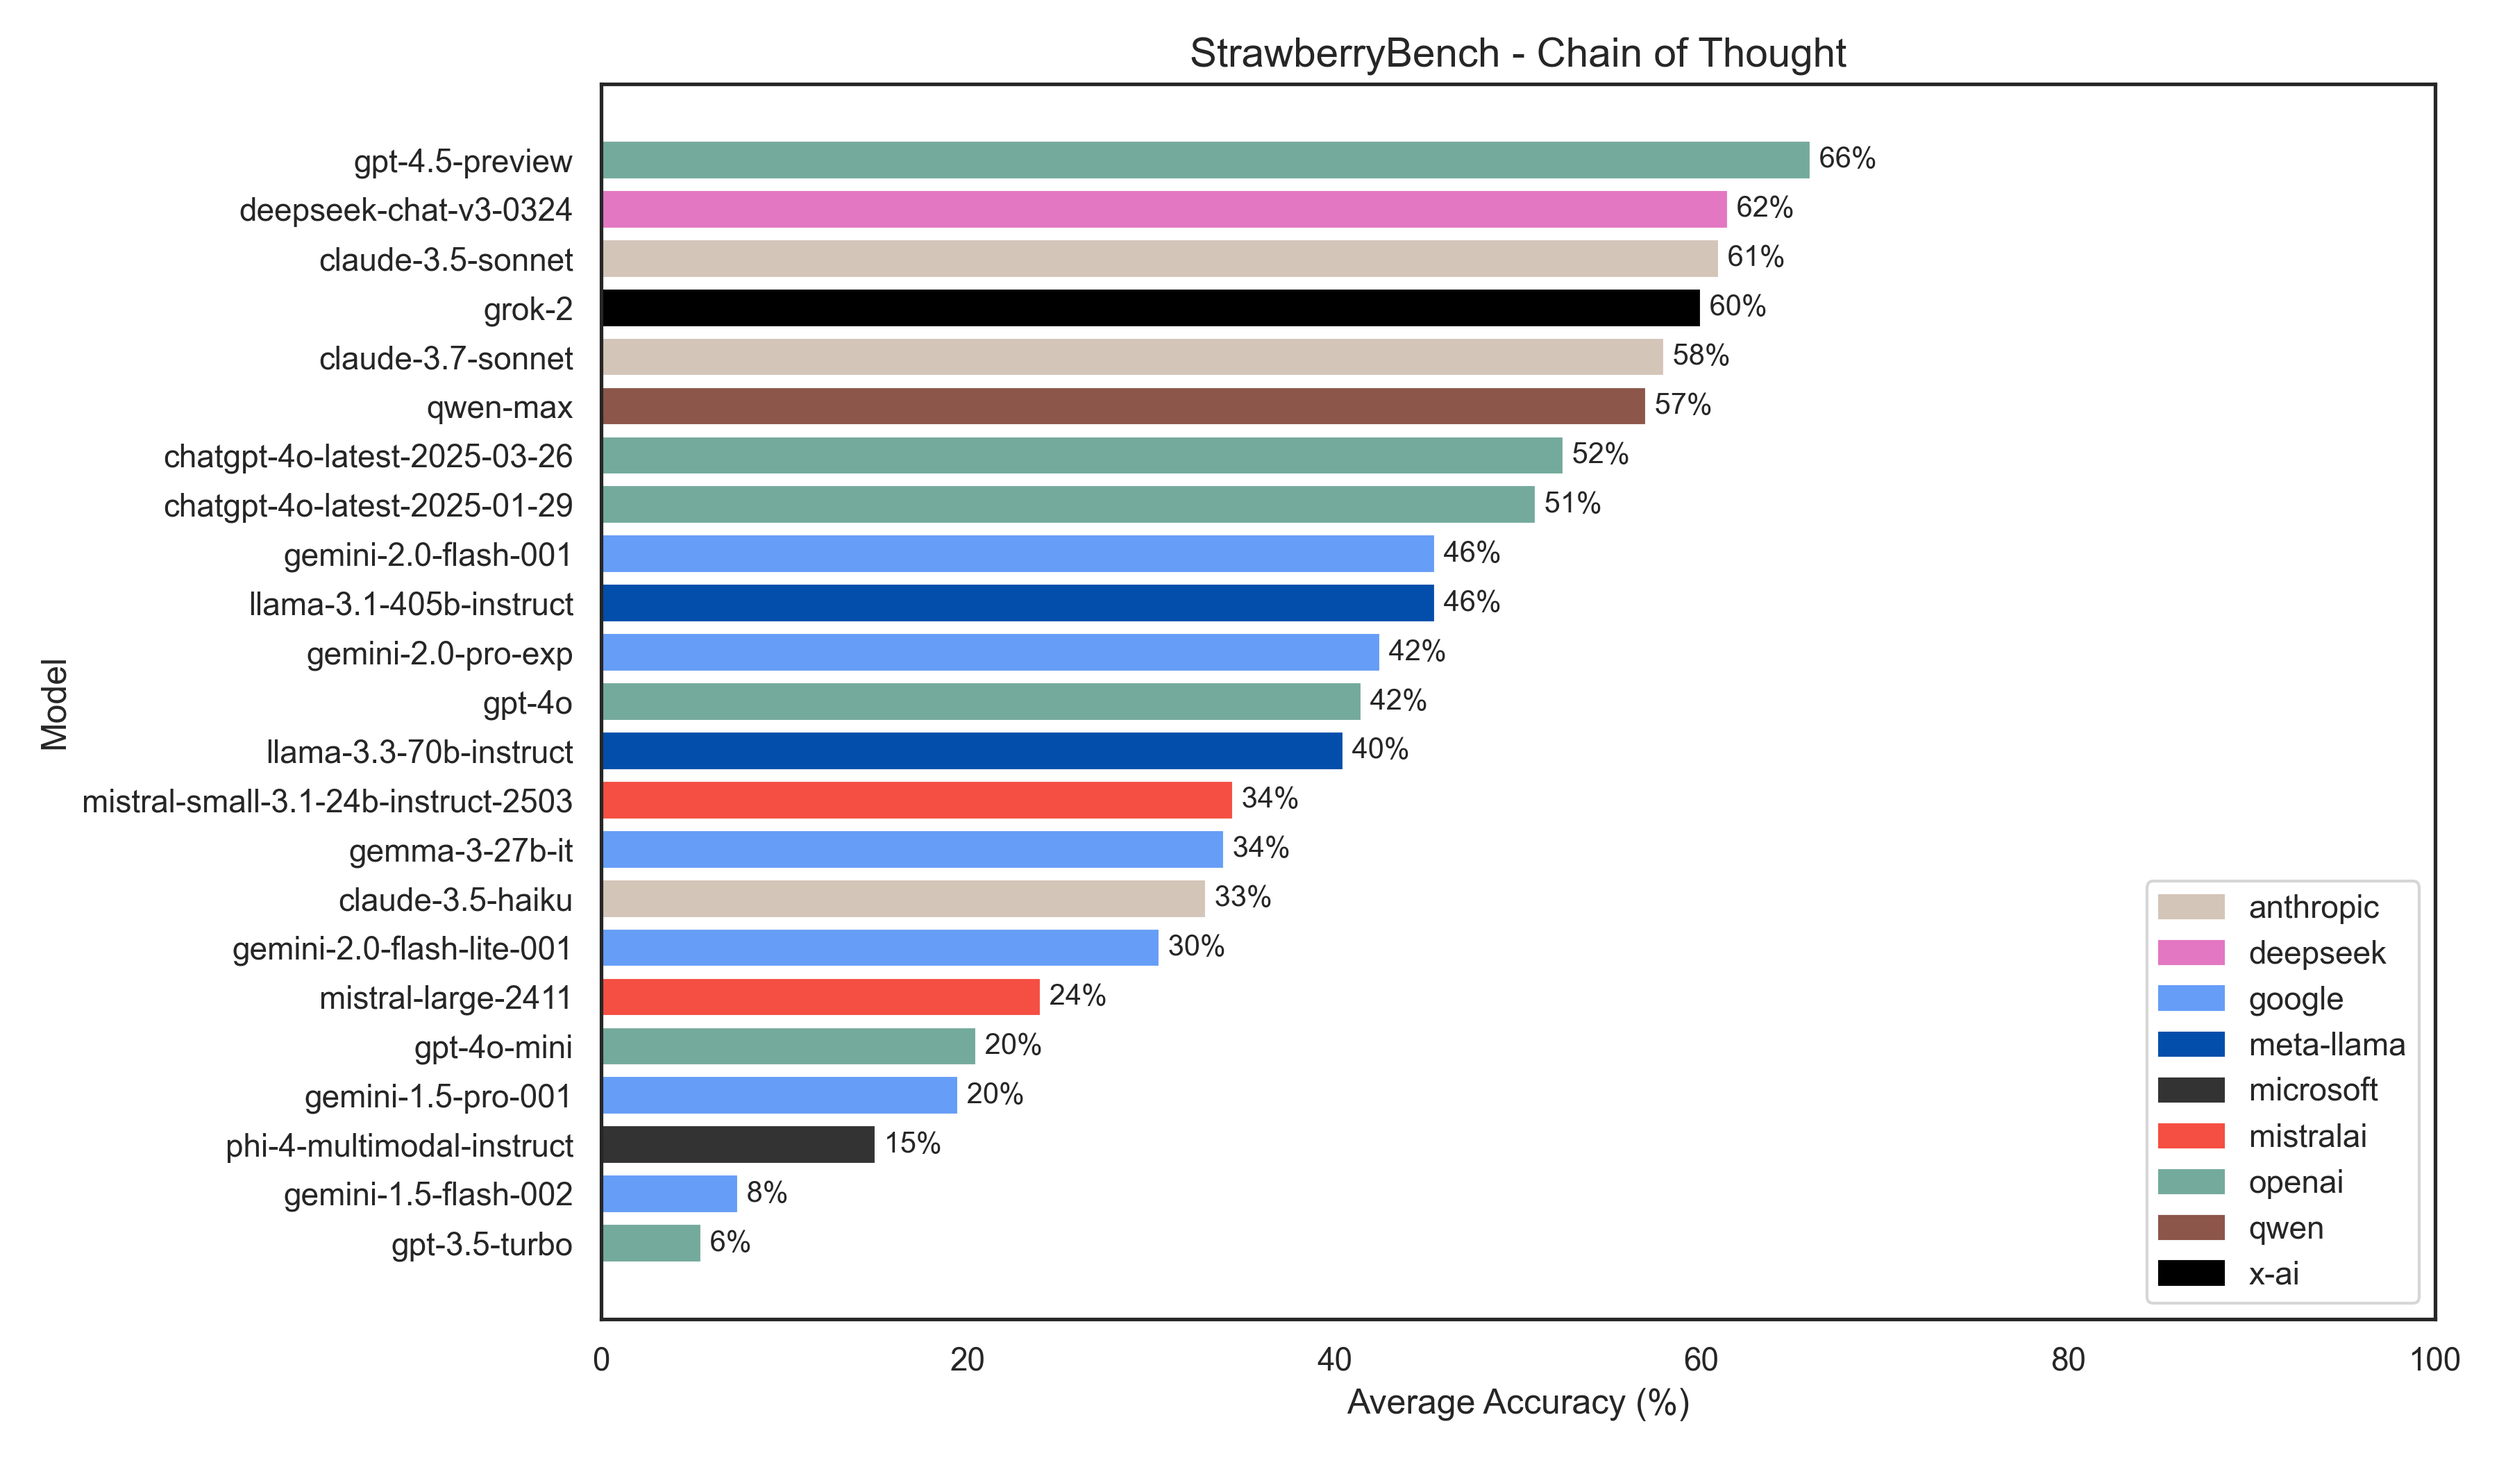
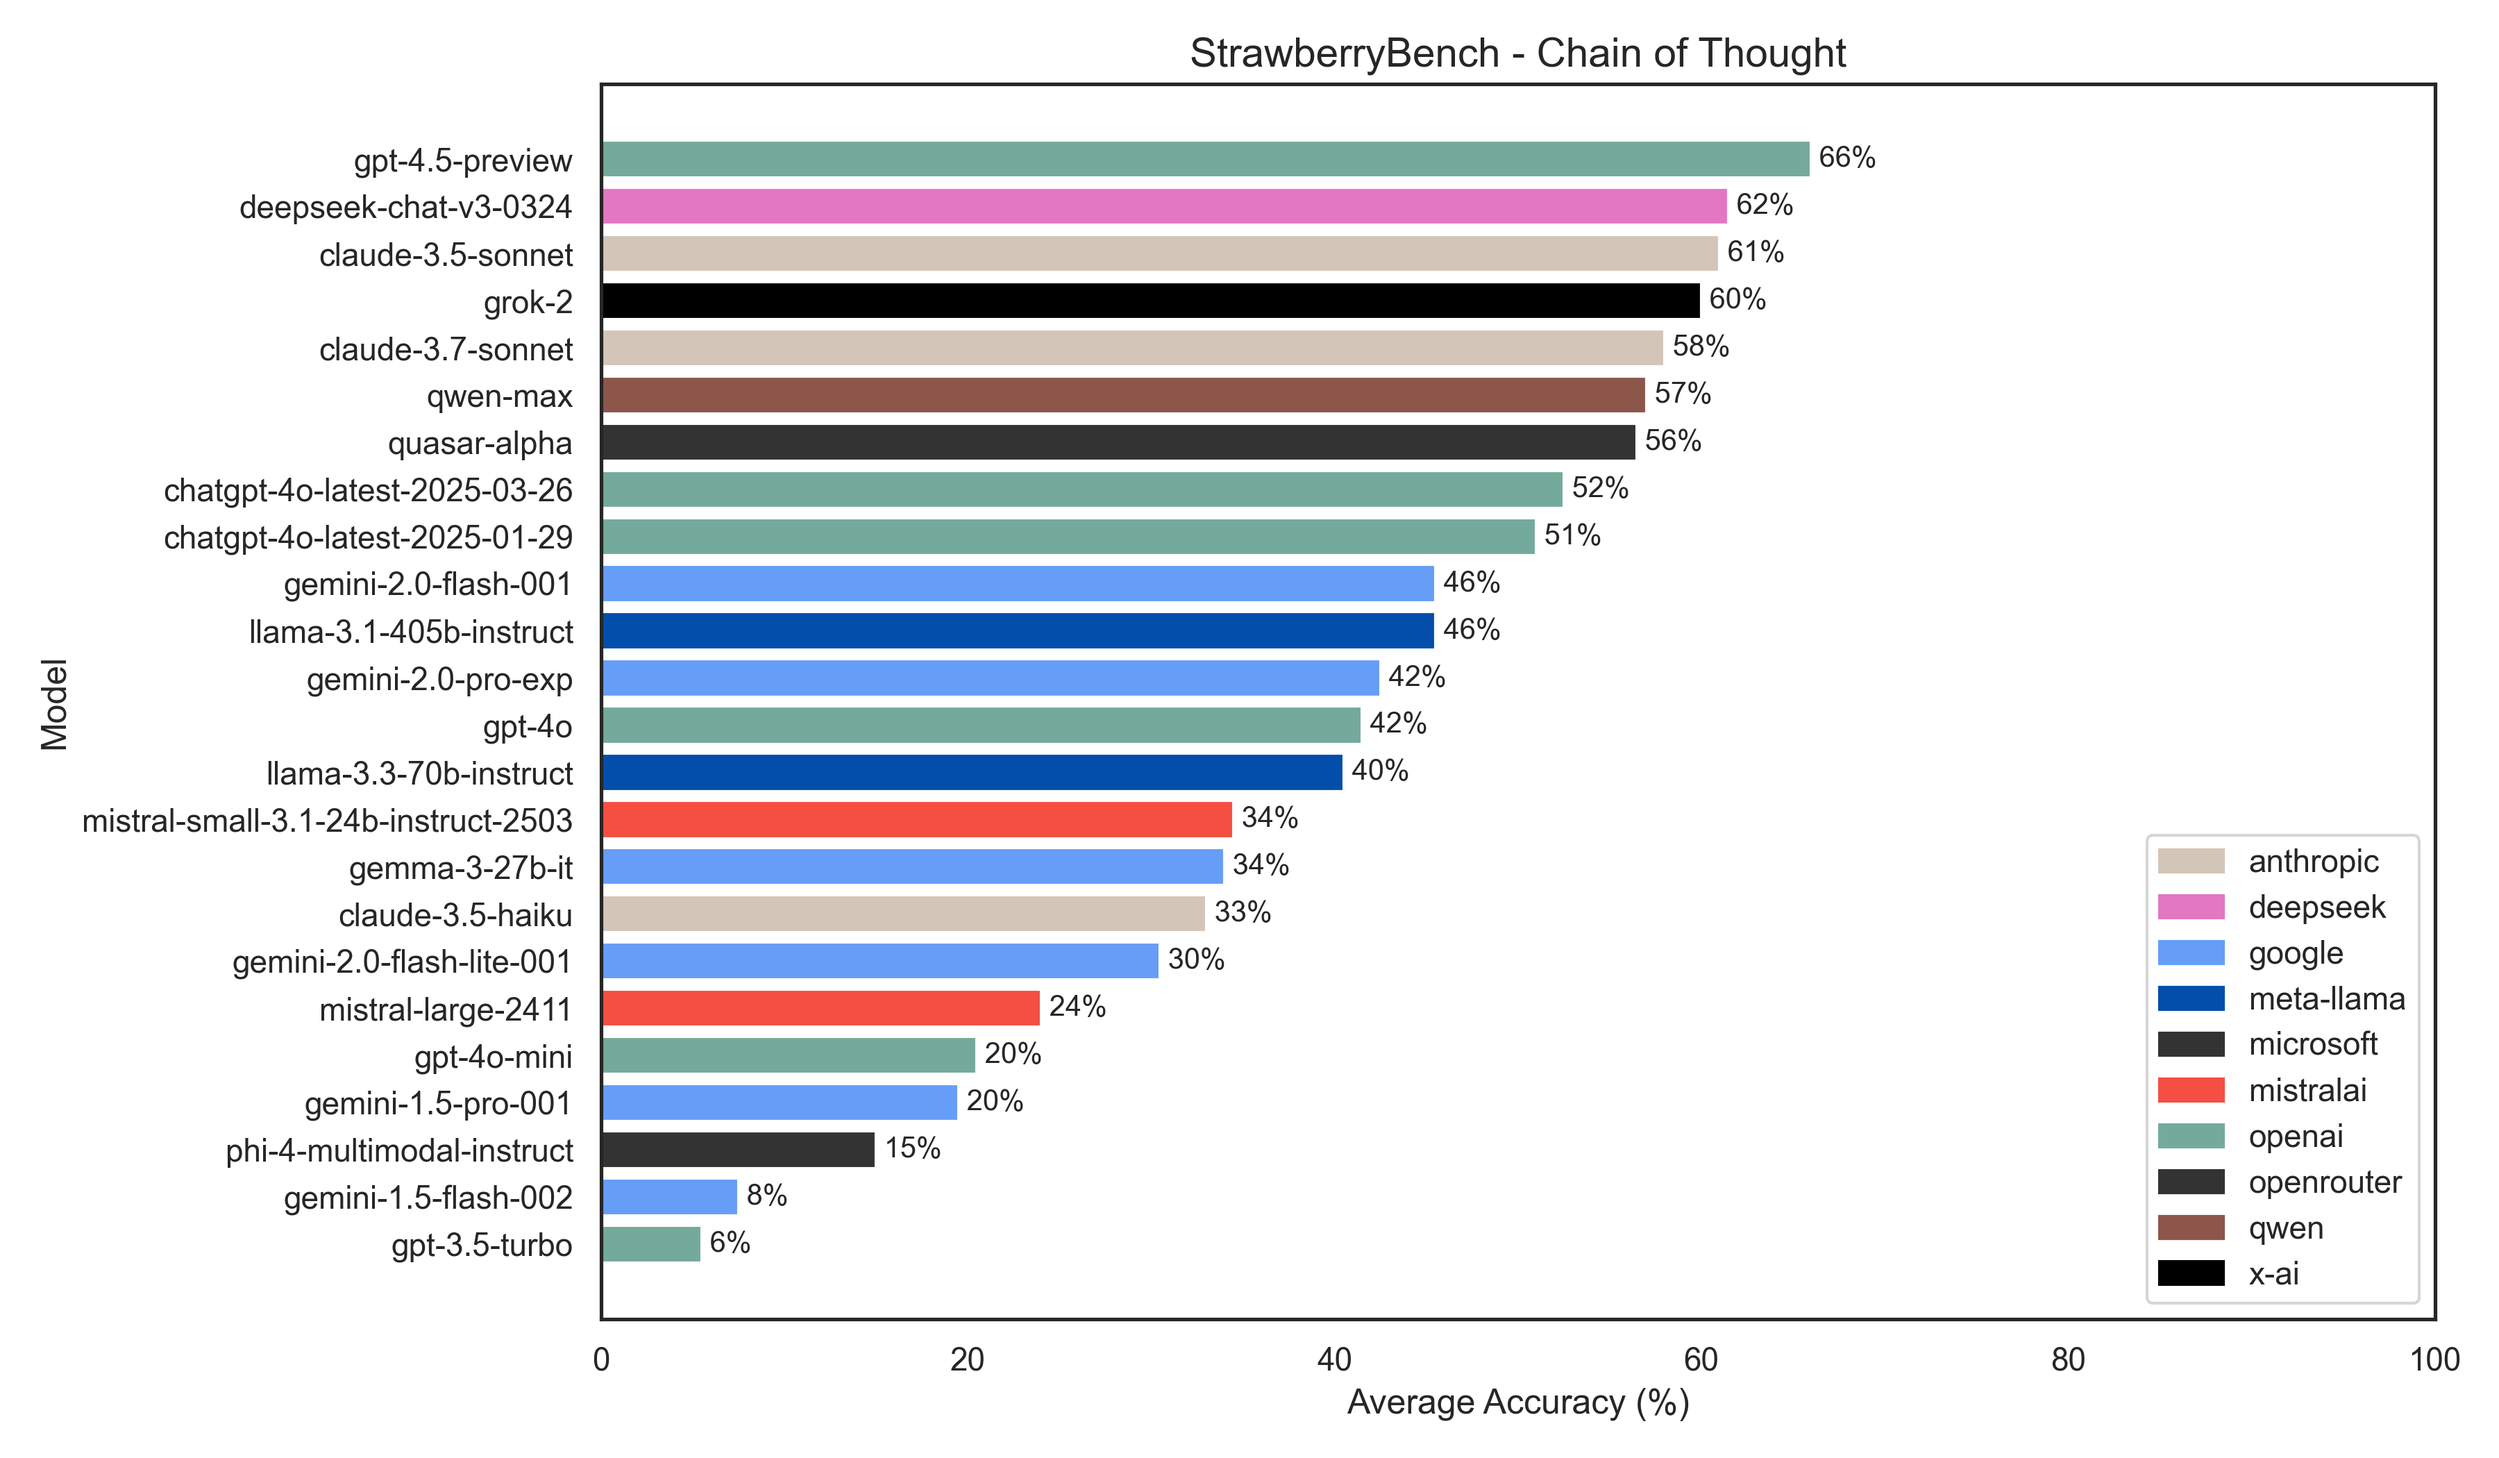
Add quasar-alpha

Changed region(s): [[0.0311, 0.1238, 0.7156, 0.8357], [0.84, 0.5571, 0.9644, 0.8357], [0.9333, 0.8048, 0.9644, 0.8357]]

diff --git a/config.py b/config.py
@@ -19,6 +19,7 @@ MODELS = [
     # { "name": "openai/gpt-4.5-preview", "client": "openai", "type": "nocot" },
     # { "name": "openai/gpt-4o", "client": "openai", "type": "nocot" },
     # { "name": "openai/gpt-4o-mini", "client": "openai", "type": "nocot" },
+    # { "name": "openrouter/quasar-alpha", "client": "openrouter", "type": "nocot" },
     # { "name": "qwen/qwen-max", "client": "openrouter", "type": "nocot", "settings": { "rate_limit": 30 } },
     # { "name": "x-ai/grok-2-1212", "client": "openrouter", "type": "nocot" },
 
@@ -42,6 +43,7 @@ MODELS = [
     # { "name": "openai/gpt-4.5-preview", "client": "openai", "type": "cot" },
     # { "name": "openai/gpt-4o", "client": "openai", "type": "cot" },
     # { "name": "openai/gpt-4o-mini", "client": "openai", "type": "cot" },
+    # { "name": "openrouter/quasar-alpha", "client": "openrouter", "type": "cot" },
     # { "name": "qwen/qwen-max", "client": "openrouter", "type": "cot", "settings": { "rate_limit": 30 } },
     # { "name": "x-ai/grok-2-1212", "client": "openrouter", "type": "cot" },
 
